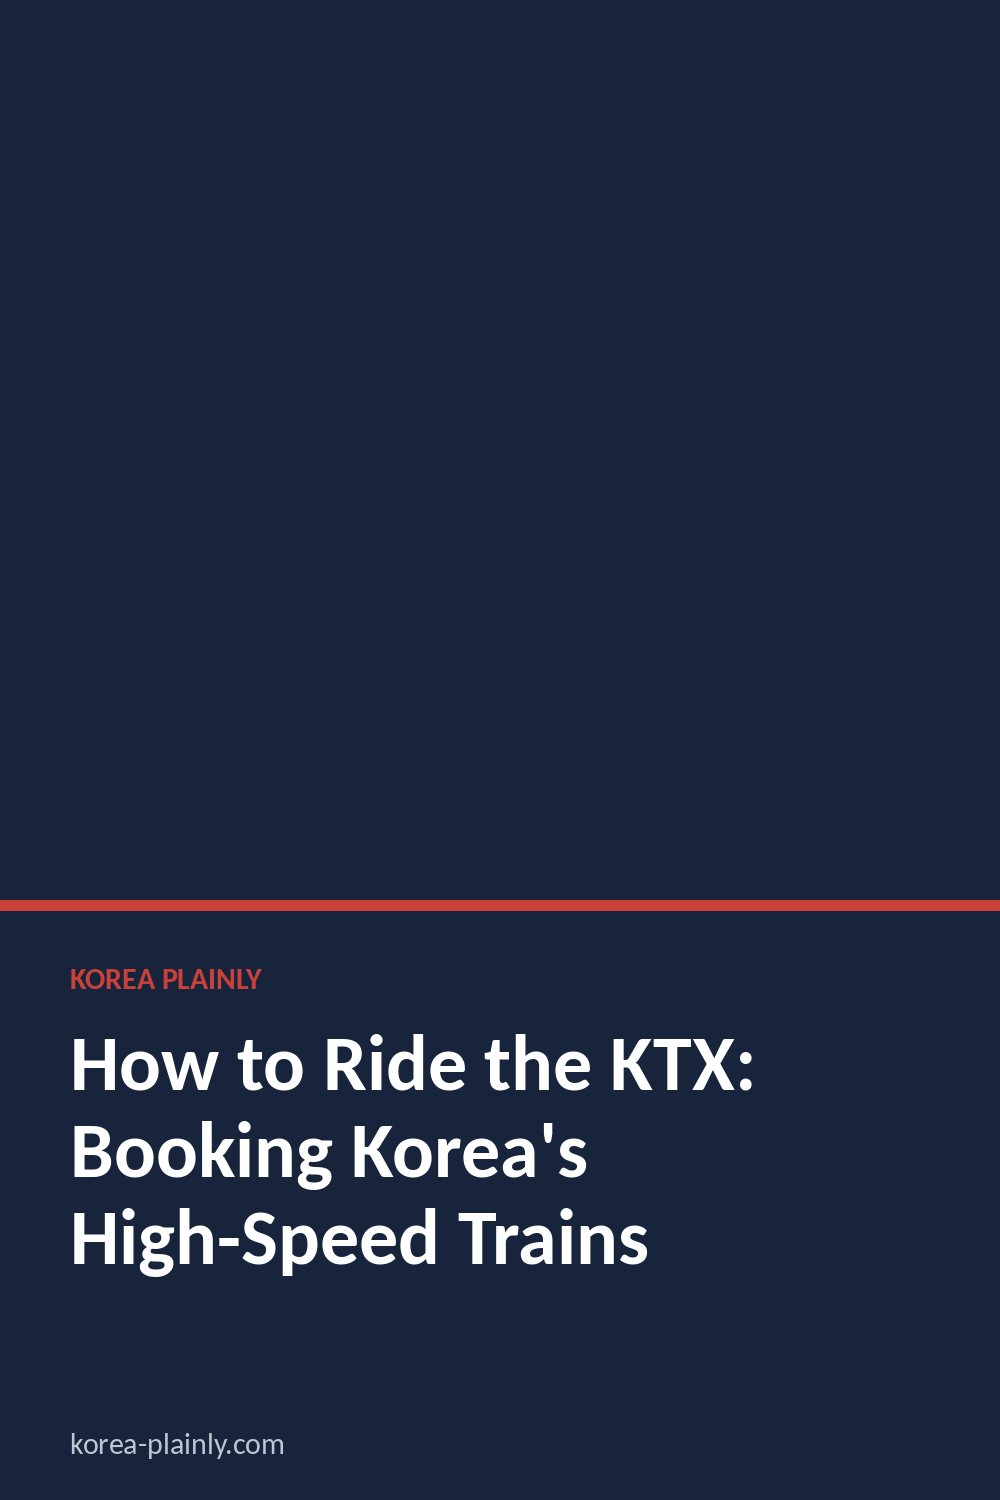
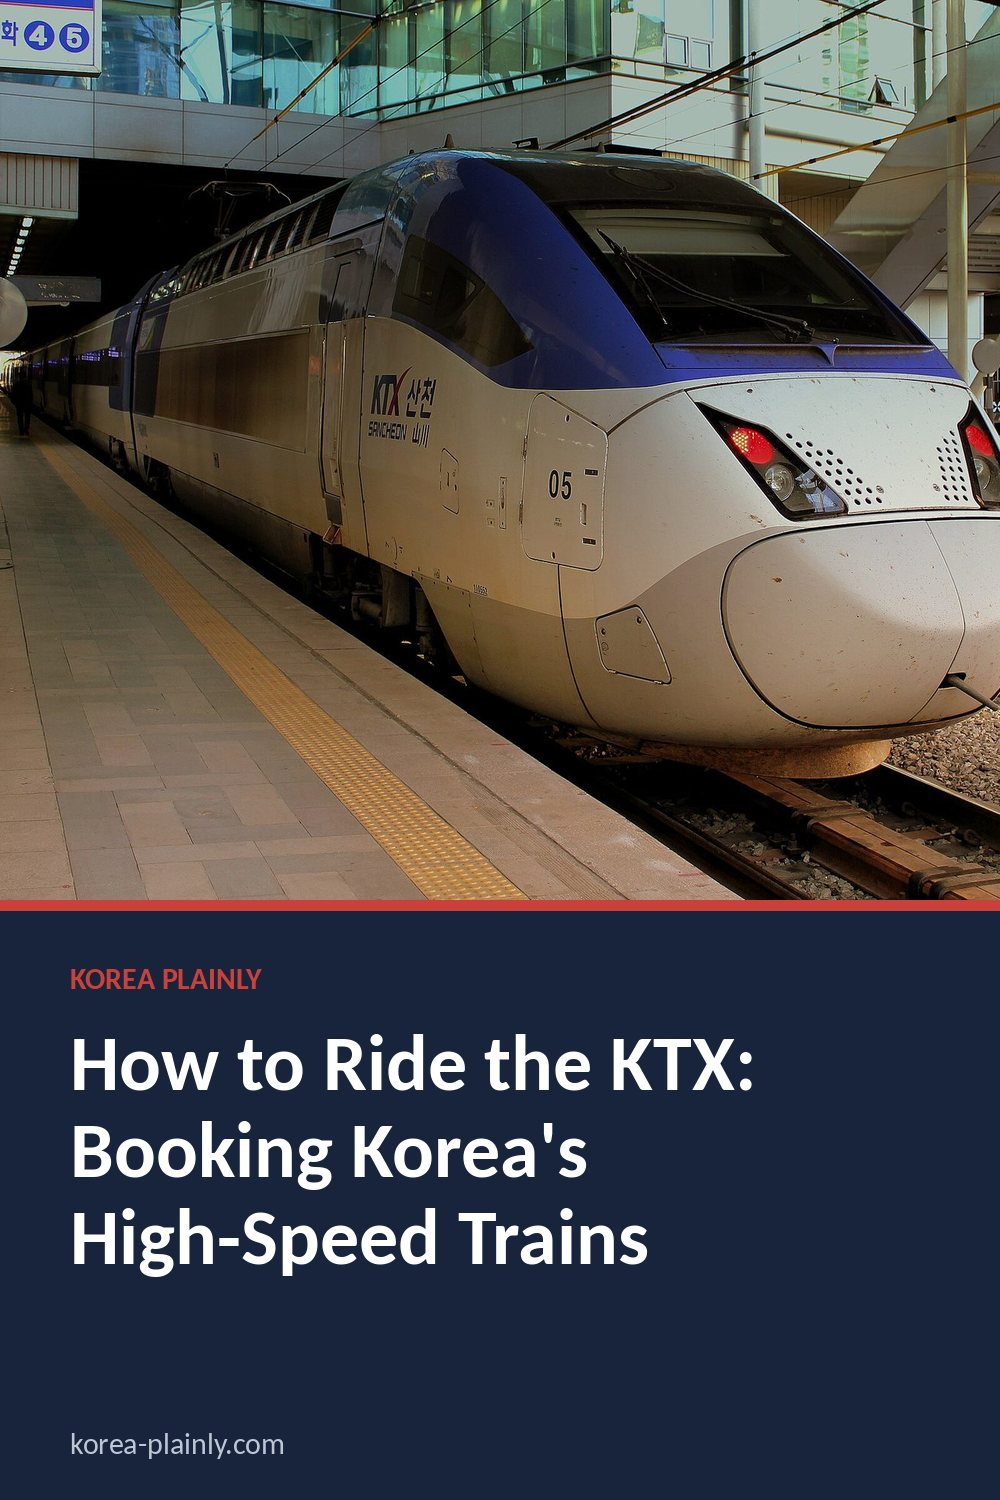
Site maintenance

diff --git a/ktx-train-guide.html b/ktx-train-guide.html
@@ -44,7 +44,7 @@
 
 <meta
   property="og:image"
-  content="https://korea-plainly.com/street.jpg"
+  content="https://korea-plainly.com/photo-ktx-train-guide.jpg"
 >
 
 <meta
@@ -69,7 +69,7 @@
 
 <meta
   name="twitter:image"
-  content="https://korea-plainly.com/street.jpg"
+  content="https://korea-plainly.com/photo-ktx-train-guide.jpg"
 >
 
 <style>
@@ -247,7 +247,7 @@ footer {
 <link rel="stylesheet" href="article.css?v=3">
 <link rel="stylesheet" href="https://fonts.googleapis.com/css2?family=DM+Sans:wght@400;500;600;700&family=Playfair+Display:ital,wght@0,600;1,600&display=swap">
 <link rel="icon" href="/favicon.svg" type="image/svg+xml">
-<script type="application/ld+json" id="kp-article-ld">{"@context": "https://schema.org", "@type": "Article", "headline": "How to Ride the KTX: Booking Korea's High-Speed Trains", "description": "A practical guide to booking KTX tickets, choosing the right station and seat, and finding your train on travel day.", "image": ["https://korea-plainly.com/street.jpg"], "datePublished": "2026-10-15", "dateModified": "2026-10-15", "author": {"@type": "Organization", "name": "Korea Plainly", "url": "https://korea-plainly.com/"}, "publisher": {"@type": "Organization", "name": "Korea Plainly", "url": "https://korea-plainly.com/"}, "mainEntityOfPage": "https://korea-plainly.com/ktx-train-guide.html"}</script>
+<script type="application/ld+json" id="kp-article-ld">{"@context": "https://schema.org", "@type": "Article", "headline": "How to Ride the KTX: Booking Korea's High-Speed Trains", "description": "A practical guide to booking KTX tickets, choosing the right station and seat, and finding your train on travel day.", "image": ["https://korea-plainly.com/photo-ktx-train-guide.jpg"], "datePublished": "2026-10-15", "dateModified": "2026-10-15", "author": {"@type": "Organization", "name": "Korea Plainly", "url": "https://korea-plainly.com/"}, "publisher": {"@type": "Organization", "name": "Korea Plainly", "url": "https://korea-plainly.com/"}, "mainEntityOfPage": "https://korea-plainly.com/ktx-train-guide.html"}</script>
 <script type="application/ld+json" id="kp-breadcrumb-ld">{"@context": "https://schema.org", "@type": "BreadcrumbList", "itemListElement": [{"@type": "ListItem", "position": 1, "name": "Home", "item": "https://korea-plainly.com/"}, {"@type": "ListItem", "position": 2, "name": "Guides", "item": "https://korea-plainly.com/guides.html"}, {"@type": "ListItem", "position": 3, "name": "Transport", "item": "https://korea-plainly.com/guides.html?category=transport"}, {"@type": "ListItem", "position": 4, "name": "How to Ride the KTX: Booking Korea's High-Speed Trains", "item": "https://korea-plainly.com/ktx-train-guide.html"}]}</script>
 <meta property="article:published_time" content="2026-10-15">
 </head>
@@ -287,9 +287,10 @@ A practical guide to booking KTX tickets, choosing the right station and seat, a
 
 <img
   class="cover"
-  src="street.jpg"
-  alt="Passengers waiting beside a KTX train at a Korean railway station" srcset="img/street.5386e01c.w480.webp 480w, img/street.5386e01c.w800.webp 800w, img/street.5386e01c.w1200.webp 1200w, street.jpg 1536w" sizes="(max-width: 860px) 100vw, 820px" fetchpriority="high"
+  src="photo-ktx-train-guide.jpg"
+  alt="Passengers waiting beside a KTX train at a Korean railway station" srcset="img/photo-ktx-train-guide.b1bf2b8a.w480.webp 480w, img/photo-ktx-train-guide.b1bf2b8a.w800.webp 800w, img/photo-ktx-train-guide.b1bf2b8a.w1200.webp 1200w, photo-ktx-train-guide.jpg 1600w" sizes="(max-width: 860px) 100vw, 820px" fetchpriority="high"
 >
+<p class="photo-credit" data-kp="photo-credit" style="font-size:12px;color:#777;margin:-18px 0 24px"><a href="https://commons.wikimedia.org/wiki/File:KOREAN_RAIL_KTX_TRAIN_AT_BUSAN_STATION_SOUTH_KOREA_OCT_2012_(8176085968).jpg" target="_blank" rel="noopener nofollow" style="color:inherit">Photo: calflier001, CC BY-SA 2.0, via Wikimedia Commons</a></p>
 
 <article>
 

diff --git a/guides.html b/guides.html
@@ -1133,7 +1133,7 @@ class="guide-card"
 href="ktx-train-guide.html" data-guide-category="transport"
 >
 
-<div class="guide-image" data-thumb="thumb-auto-ktx-train-guide.svg"><img class="guide-thumb" src="thumb-auto-ktx-train-guide.svg" alt="" loading="eager" decoding="async">
+<div class="guide-image" data-thumb="photo-ktx-train-guide.jpg"><img class="guide-thumb" src="photo-ktx-train-guide.jpg" alt="" loading="eager" srcset="img/photo-ktx-train-guide.b1bf2b8a.w480.webp 480w, img/photo-ktx-train-guide.b1bf2b8a.w800.webp 800w, img/photo-ktx-train-guide.b1bf2b8a.w1200.webp 1200w, photo-ktx-train-guide.jpg 1600w" sizes="(max-width: 600px) 100vw, (max-width: 1000px) 50vw, 400px" decoding="async">
 
 <span>
 23
